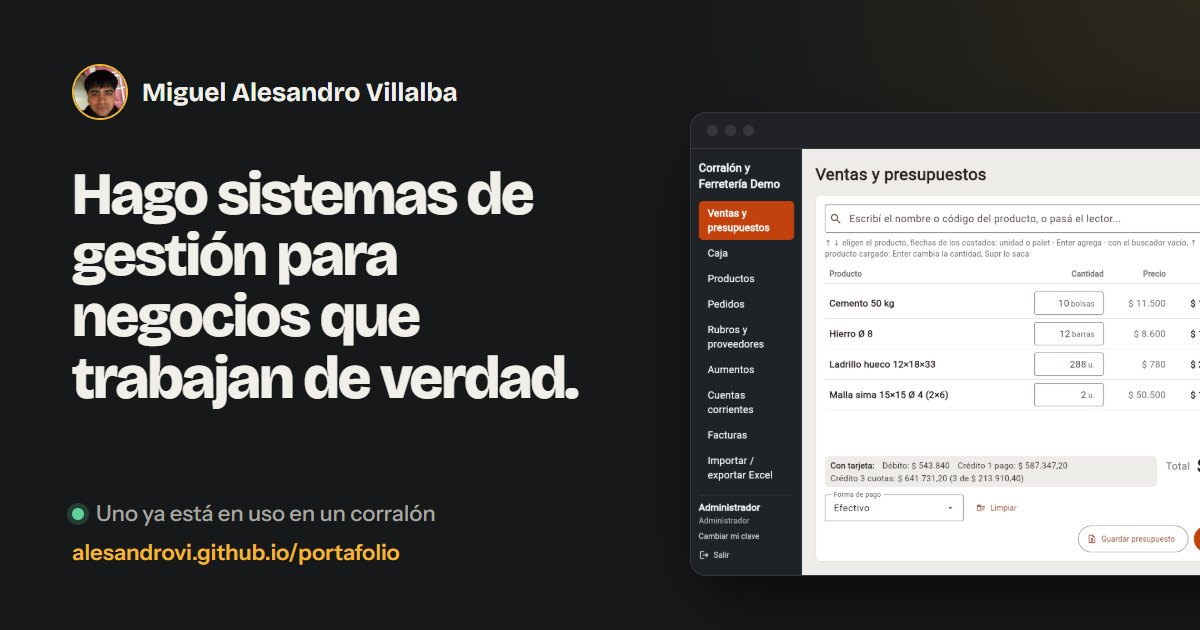
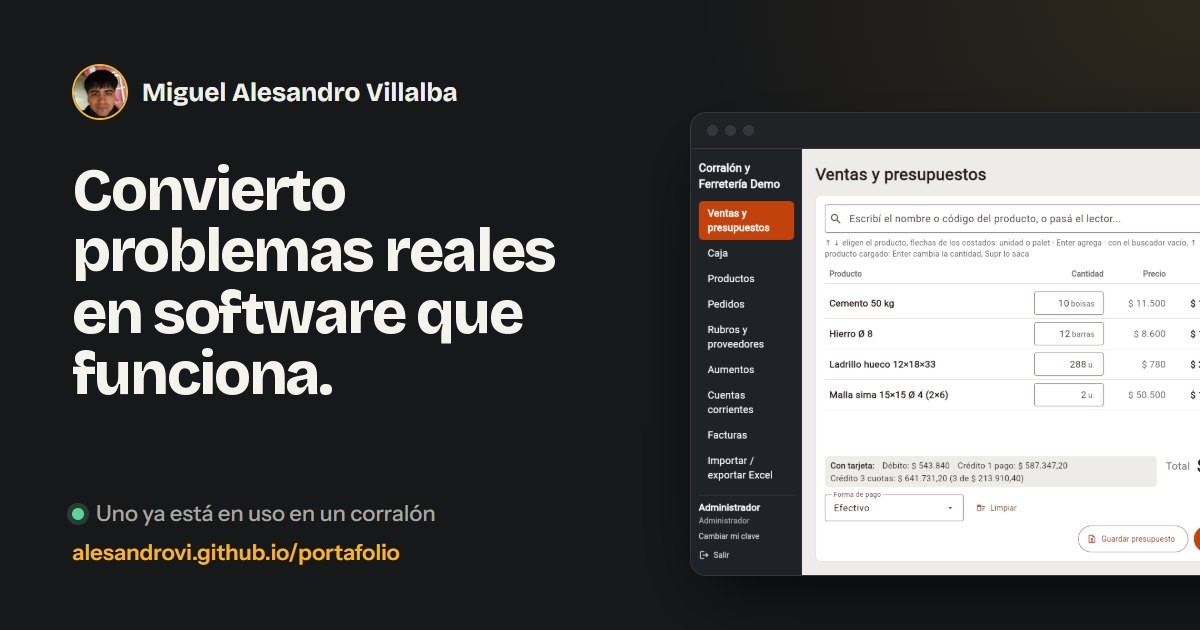
Nuevo título del portafolio

Changed region(s): [[0.0617, 0.2714, 0.4933, 0.6635]]

diff --git a/index.html b/index.html
@@ -8,13 +8,13 @@
     <meta name="theme-color" content="#17181a">
     <meta property="og:type" content="website">
     <meta property="og:title" content="Miguel Alesandro Villalba | Portfolio">
-    <meta property="og:description" content="Sistemas de gestión para negocios reales: ventas, stock, facturación y más.">
+    <meta property="og:description" content="Software a medida que resuelve problemas reales: aplicaciones web, de escritorio y con IA.">
     <meta property="og:url" content="https://alesandrovi.github.io/portafolio/">
     <meta property="og:locale" content="es_AR">
-    <meta property="og:image" content="https://alesandrovi.github.io/portafolio/img/og-portfolio.jpg">
+    <meta property="og:image" content="https://alesandrovi.github.io/portafolio/img/og-portfolio.jpg?v=2">
     <meta property="og:image:width" content="1200">
     <meta property="og:image:height" content="630">
-    <meta property="og:image:alt" content="Miguel Alesandro Villalba: hago sistemas de gestión para negocios que trabajan de verdad.">
+    <meta property="og:image:alt" content="Miguel Alesandro Villalba: convierto problemas reales en software que funciona.">
     <meta name="twitter:card" content="summary_large_image">
     <title>Miguel Alesandro Villalba | Portfolio</title>
     <link rel="icon" href="img/favicon.svg" type="image/svg+xml">
@@ -70,10 +70,10 @@
         ========================== -->
         <section class="hero contenedor" id="inicio">
             <div class="hero-texto">
-                <h1>Hago sistemas de gestión para negocios que trabajan de verdad.</h1>
+                <h1>Convierto problemas reales en software que funciona.</h1>
                 <p class="hero-bajada">
                     Soy Miguel Alesandro Villalba, estudiante de tercer año de Desarrollo de Software.
-                    Desarrollo sistemas de ventas, stock y facturación, y uno de ellos ya se usa todos
+                    Hago aplicaciones web y de escritorio a medida, y una de ellas ya se usa todos
                     los días en un corralón. Busco mi primera experiencia como desarrollador junior o trainee.
                 </p>
                 <div class="hero-acciones">
